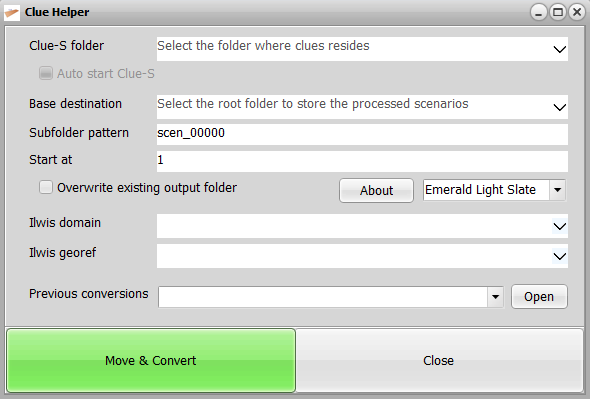
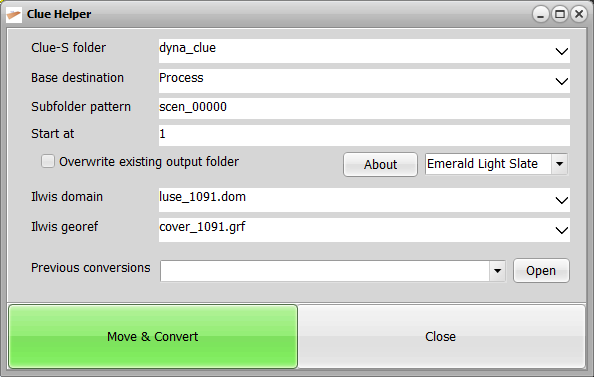
Updated the documentation to reflect the software changes

diff --git a/readme.md b/readme.md
@@ -4,6 +4,7 @@ September 2020
 ## Introduction
 This software has been developed as a complementary software to the Clue-S modelling software (version 2.0, 2006).
 The helper software is added to manage the modelling output of the Clue-S software. The advantages:
+- It automatically starts the Clue-S modelling software or if already running activates it.
 - Organizes the output of the modelling in separate folders, one for each scenario output
 - Enables quickly running multiple scenarios, but clearing the last modelling output
 - Converts the modelling output to ILWIS format files as well.
@@ -27,7 +28,6 @@ The elements in the user interface:
 |Entry|Description|
 |:-----|:-----------|
 |Clue-S folder|The folder where the modelling software is stored; this folder also contains the ILWIS domain and georeferenced service objects that match the model dimensions and values. The small down arrow opens a menu from which the folder can be selected. Note the existence of an additional file called *cov_all.0.Copy*: this file is used as a template to recreate *cov_all.0* after each model run.|
-|Auto start Clue-S|When this box is checked the Clue-S software is also started when the helper software is started the next time.|
 |Base destination|This is the folder where all the modelling outputs will be stored in a subfolder for each scenario. The small down arrow opens a menu from which the folder can be selected.<p><p>**New folder**<br> You can create a new folder for this entry in two ways:<br>1. Type the name of the new folder, then click on the down arrow and select `<new>`. The folder is created and selected.<br>2. Add a new folder in the windows explorer. The new folder is added in the menu under the down arrow immediately and you can select it. In both cases the Start at entry is set to 1.|
 |Subfolder pattern|Define the pattern for the scenario subfolders. The pattern begins with a text part followed by a sequence of zeros. The text part will be taken as-is. The number of zeroes determines the number of digits ending up in the folder name. If no zeroes are included this number defaults to 5.<br>For example, the pattern scen_000 will result in folder names: scen_001, scen_002, etc.|
 |Start at|This sequence number is combined with the subfolder pattern and defines at what number the subfolder number part will start. At each start of the program this is calculated from the already existing scenario folders. For example, if the folders scen_00001, scen_00002 and scen_00003 already exist the start number will be set at 4.|
